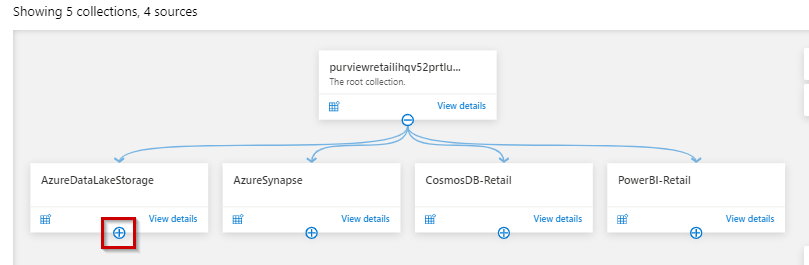
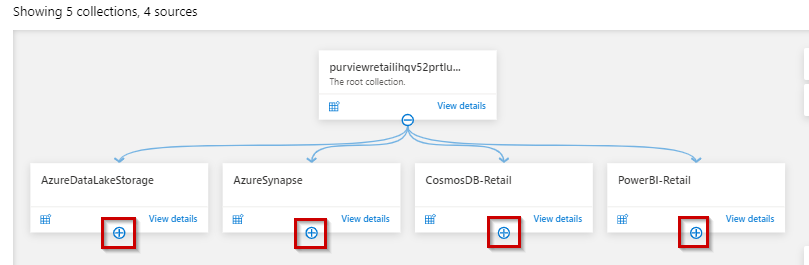
updated readme-shell.md main script and media files

Changed region(s): [[0.3399, 0.8151, 0.4326, 0.966], [0.8344, 0.8151, 0.8962, 0.966], [0.5871, 0.8151, 0.6489, 0.966]]

diff --git a/retail/Readme-shell.md b/retail/Readme-shell.md
@@ -474,7 +474,7 @@ cd ./retail/retail
 
 	![Select Purview Resource.](media/purview-8.png)
 
-9. All the sub collections will be visible, **click** on the "+" sign under AzureDataLakeStorage.
+9. All the sub collections will be visible, **click** on the "+" sign under AzureDataLakeStorage, AzureSynapse, CosmosDB-Retail and PowerBI-Retail.
 
 	![Select Purview Resource.](media/purview-9.png)
 
@@ -498,8 +498,72 @@ cd ./retail/retail
 
 	![Select Purview Resource.](media/purview-14.png)
 	
-15. **Repeat** the steps 11 and 15 by selecting appropriate values for creating connections for all the other collections i.e. Synapse, CosmosDB and PowerBI.
+15. **Repeat** the step #10 for AzureSynapseAnalytics.
 
+16. **Open** synaspse studio, **select** manage tab, under External Connections**select** Azure Purview, **click** on Connect to a Purview account, under Purview account name **select** the current Purview account, and then **click** on Apply.
+
+	![Select Purview Resource.](media/purview-15.png)
+	
+17. Now, under Security **select** Access Control, **click** on Add, under Role **select** Synapse Administrator, under Select user **select** current Purview account and then **click** on Apply.
+
+	![Select Purview Resource.](media/purview-16.png)
+	
+18. Go back to Purview studio, **click** on New Scan, a window appears, here under SQL Database **select** the name of SQL database and then **click** on Continue.
+
+	![Select Purview Resource.](media/purview-17.png)
+
+19. In the new window **click** on continue.
+
+	![Select Purview Resource.](media/purview-18.png)
+	
+20. In the next window, **click** on Save and Run.
+
+	![Select Purview Resource.](media/purview-19.png)
+
+21. **Repeat** the step #10 for CosmosDB.
+
+22. **Click** on New Scan, in the pop-up window **expand** the Credential drop-down and **click** on New.
+
+	![Select Purview Resource.](media/purview-20.png)
+	
+23. Under Name **enter** any desired name then **expand** Key Vault connection and **click** on New.
+
+	![Select Purview Resource.](media/purview-21.png)
+	
+24. In the new window **enter** any desired name, then **expand** Key Vault name and **select** the current key vault name and then **click** on create.
+
+	![Select Purview Resource.](media/purview-22.png)
+	
+25. A pop-up window appears, here **click** on Confirm.
+
+	![Select Purview Resource.](media/purview-23.png)
+	
+26. In the new window **enter** the desired name, **expand** Key Vault connection and **select** the name entered in step #22, **enter** the secret name as Cosmos-cred and then **click** on Create.
+
+	![Select Purview Resource.](media/purview-24.png)
+	
+27. In the new window under Credential from the drop-down **select** the appropriate credential, under the Select a collection **select** the Purview account name and then **click** on Continue.
+	
+	![Select Purview Resource.](media/purview-25.png)
+	
+28. In the new window **click** on Continue.
+
+	![Select Purview Resource.](media/purview-26.png)
+
+29. In the new window **click** on Continue.
+
+	![Select Purview Resource.](media/purview-27.png)
+	
+30. In the new window, **check** the Once radio button and **click** on Continue.
+	
+	![Select Purview Resource.](media/purview-28.png)
+	
+31. In the next window **click** on Save and run.
+
+	![Select Purview Resource.](media/purview-29.png)
+	
+32. **Repeat** the step #10 for PowerBI.
+	
 ### Task 8: Power BI reports and dashboard creation
 
 1. **Open** Power BI and **Select** the Workspace, which is created in [Task 2](#task-2-power-bi-workspace-creation).
